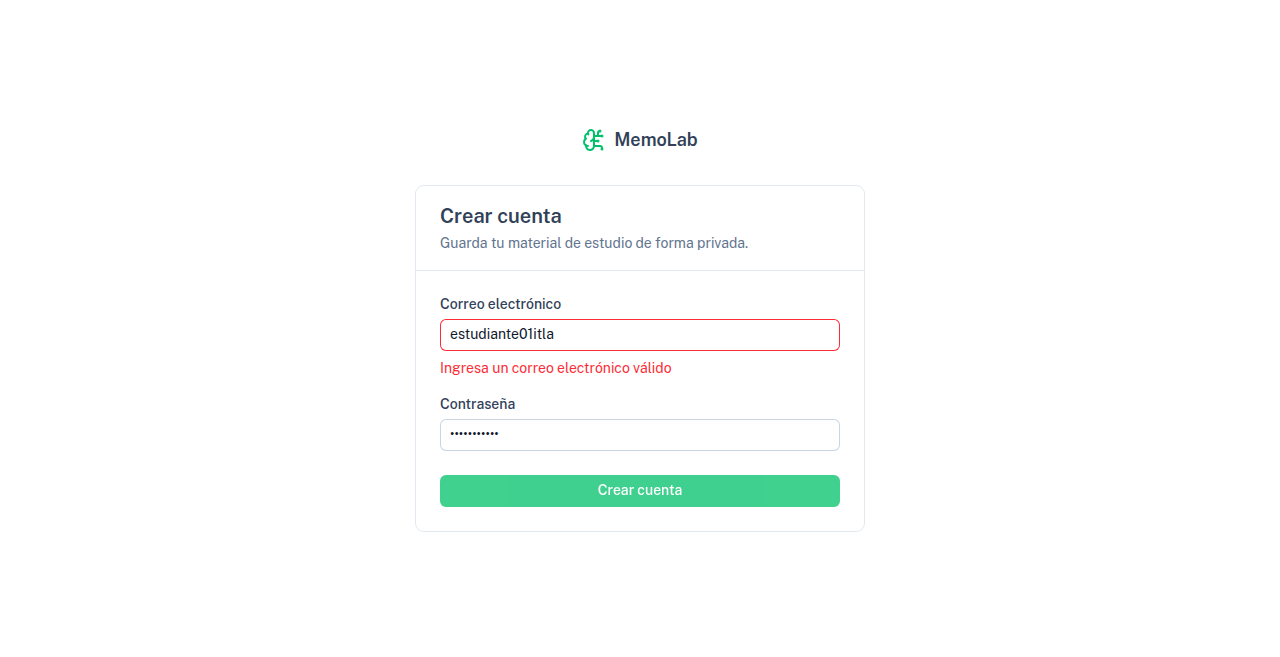
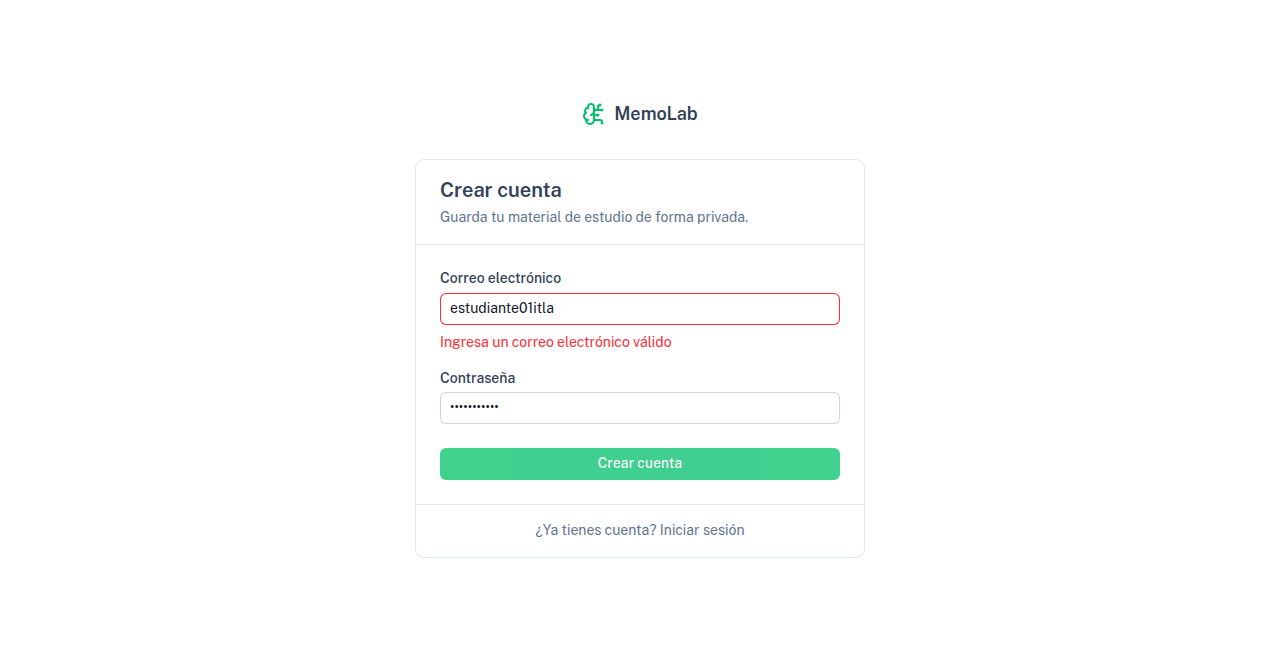
HU-02: inicio y cierre de sesion con rutas protegidas

Changed region(s): [[0.3438, 0.274, 0.6562, 0.8219], [0.4375, 0.1522, 0.5625, 0.2435]]

diff --git a/tests/e2e/login.e2e.test.ts b/tests/e2e/login.e2e.test.ts
@@ -1,0 +1,85 @@
+import type { ChildProcess } from 'node:child_process'
+import { until, type WebDriver } from 'selenium-webdriver'
+import { abrirNavegador, arrancarServidor, correoDePrueba, guardarEvidencia, URL_BASE } from './soporte'
+import { PaginaRegistro } from './paginas/registro'
+import { PaginaLogin } from './paginas/login'
+
+const CONTRASENA = 'MemoLab2026'
+
+let servidor: ChildProcess
+let driver: WebDriver
+let registro: PaginaRegistro
+let login: PaginaLogin
+
+async function crearCuenta(): Promise<string> {
+  const correo = correoDePrueba()
+  await registro.abrir()
+  await registro.llenar(correo, CONTRASENA)
+  await registro.crearCuenta()
+  await driver.wait(until.urlIs(`${URL_BASE}/`), 20000)
+  return correo
+}
+
+beforeAll(async () => {
+  servidor = await arrancarServidor()
+  driver = await abrirNavegador()
+  registro = new PaginaRegistro(driver)
+  login = new PaginaLogin(driver)
+})
+
+afterAll(async () => {
+  await driver?.quit()
+  servidor?.kill()
+})
+
+describe('HU-02 · Inicio y cierre de sesión', () => {
+  test('con los datos correctos entro a la pantalla principal y veo mi correo en la barra de arriba', async () => {
+    const correo = await crearCuenta()
+    await login.cerrarSesion()
+    await driver.wait(until.urlIs(`${URL_BASE}/login`), 20000)
+
+    await login.abrir()
+    await login.llenar(correo, CONTRASENA)
+    await login.iniciarSesion()
+
+    await driver.wait(until.urlIs(`${URL_BASE}/`), 20000)
+    expect(await login.correoEnLaBarra()).toContain(correo)
+
+    await guardarEvidencia(driver, 'HU-02', 'HU-02-sesion-iniciada')
+  })
+
+  test('CP-003: con una contraseña incorrecta muestra «Correo o contraseña incorrectos»', async () => {
+    const correo = await crearCuenta()
+    await login.cerrarSesion()
+    await driver.wait(until.urlIs(`${URL_BASE}/login`), 20000)
+
+    await login.abrir()
+    await login.llenar(correo, 'claveIncorrecta')
+    await login.iniciarSesion()
+
+    await login.esperarMensaje('Correo o contraseña incorrectos')
+    expect(await driver.getCurrentUrl()).toBe(`${URL_BASE}/login`)
+
+    await guardarEvidencia(driver, 'HU-02', 'CP-003-contrasena-incorrecta')
+  })
+
+  test('al recargar la página sigo dentro de la aplicación', async () => {
+    const correo = await crearCuenta()
+
+    await driver.navigate().refresh()
+    await driver.wait(until.urlIs(`${URL_BASE}/`), 20000)
+
+    expect(await login.correoEnLaBarra()).toContain(correo)
+  })
+
+  test('al cerrar sesión y confirmar me lleva a la pantalla de inicio de sesión', async () => {
+    await crearCuenta()
+
+    await login.cerrarSesion()
+    await driver.wait(until.urlIs(`${URL_BASE}/login`), 20000)
+
+    expect(await driver.getCurrentUrl()).toBe(`${URL_BASE}/login`)
+
+    await guardarEvidencia(driver, 'HU-02', 'HU-02-cierre-de-sesion')
+  })
+})

diff --git a/app/pages/login.vue b/app/pages/login.vue
@@ -1,0 +1,102 @@
+<script setup lang="ts">
+definePageMeta({
+  layout: 'auth'
+})
+
+const client = useSupabaseClient()
+
+const email = ref('')
+const password = ref('')
+const loading = ref(false)
+const submitError = ref('')
+
+const canSubmit = computed(() => email.value.trim() !== '' && password.value !== '')
+
+async function handleLogin() {
+  submitError.value = ''
+  loading.value = true
+
+  const { error } = await client.auth.signInWithPassword({
+    email: email.value.trim(),
+    password: password.value
+  })
+
+  loading.value = false
+
+  if (error) {
+    submitError.value = 'Correo o contraseña incorrectos'
+    return
+  }
+
+  await navigateTo('/')
+}
+</script>
+
+<template>
+  <UCard class="w-full max-w-md">
+    <template #header>
+      <h1 class="text-xl font-semibold">
+        Iniciar sesión
+      </h1>
+      <p class="text-sm text-muted mt-1">
+        Entra para seguir con tus repasos.
+      </p>
+    </template>
+
+    <form
+      novalidate
+      @submit.prevent="handleLogin"
+    >
+      <UFormField
+        label="Correo electrónico"
+        name="email"
+      >
+        <UInput
+          v-model="email"
+          type="email"
+          placeholder="estudiante@itla.edu.do"
+          :ui="{ root: 'w-full' }"
+        />
+      </UFormField>
+
+      <UFormField
+        label="Contraseña"
+        name="password"
+        class="mt-4"
+      >
+        <UInput
+          v-model="password"
+          type="password"
+          :ui="{ root: 'w-full' }"
+        />
+      </UFormField>
+
+      <p
+        v-if="submitError"
+        class="mt-4 text-sm text-error"
+        role="alert"
+      >
+        {{ submitError }}
+      </p>
+
+      <UButton
+        type="submit"
+        block
+        class="mt-6"
+        :disabled="!canSubmit || loading"
+        :loading="loading"
+      >
+        Iniciar sesión
+      </UButton>
+    </form>
+
+    <template #footer>
+      <p class="text-sm text-muted text-center">
+        ¿No tienes cuenta?
+        <ULink to="/registro">
+          Crear cuenta
+        </ULink>
+      </p>
+    </template>
+  </UCard>
+</template>

diff --git a/app/layouts/default.vue b/app/layouts/default.vue
@@ -2,9 +2,12 @@
 const user = useSupabaseUser()
 const client = useSupabaseClient()
 
+const confirmarSalida = ref(false)
+
 async function handleLogout() {
+  confirmarSalida.value = false
   await client.auth.signOut()
-  await navigateTo('/')
+  await navigateTo('/login')
 }
 </script>
 
@@ -25,6 +28,13 @@ async function handleLogout() {
       </template>
 
       <template #right>
+        <span
+          v-if="user"
+          class="hidden sm:block text-sm text-muted"
+        >
+          {{ user.email }}
+        </span>
+
         <UColorModeButton />
 
         <UButton
@@ -33,15 +43,15 @@ async function handleLogout() {
           color="neutral"
           variant="ghost"
           aria-label="Cerrar sesión"
-          @click="handleLogout"
+          @click="confirmarSalida = true"
         />
         <UButton
           v-else
-          to="/registro"
+          to="/login"
           color="neutral"
           variant="ghost"
         >
-          Crear cuenta
+          Iniciar sesión
         </UButton>
       </template>
     </UHeader>
@@ -57,5 +67,27 @@ async function handleLogout() {
         </p>
       </template>
     </UFooter>
+
+    <UModal
+      v-model:open="confirmarSalida"
+      title="Cerrar sesión"
+      description="¿Seguro que quieres salir de tu cuenta?"
+    >
+      <template #footer>
+        <UButton
+          color="neutral"
+          variant="ghost"
+          @click="confirmarSalida = false"
+        >
+          Cancelar
+        </UButton>
+        <UButton
+          color="error"
+          @click="handleLogout"
+        >
+          Cerrar sesión
+        </UButton>
+      </template>
+    </UModal>
   </div>
 </template>

diff --git a/tests/e2e/paginas/login.ts b/tests/e2e/paginas/login.ts
@@ -1,0 +1,42 @@
+import { By, until, type WebDriver } from 'selenium-webdriver'
+import { esperarHidratacion, esperarTexto, URL_BASE } from '../soporte'
+
+export class PaginaLogin {
+  driver: WebDriver
+
+  constructor(driver: WebDriver) {
+    this.driver = driver
+  }
+
+  async abrir(): Promise<void> {
+    await this.driver.get(`${URL_BASE}/login`)
+    await esperarHidratacion(this.driver)
+  }
+
+  async llenar(correo: string, contrasena: string): Promise<void> {
+    await this.driver.findElement(By.css('input[type="email"]')).sendKeys(correo)
+    await this.driver.findElement(By.css('input[type="password"]')).sendKeys(contrasena)
+  }
+
+  async iniciarSesion(): Promise<void> {
+    await this.driver.findElement(By.css('button[type="submit"]')).click()
+  }
+
+  async esperarMensaje(texto: string): Promise<void> {
+    await esperarTexto(this.driver, texto)
+  }
+
+  async correoEnLaBarra(): Promise<string> {
+    const elemento = await this.driver.wait(until.elementLocated(By.css('header')), 15000)
+    return elemento.getText()
+  }
+
+  async cerrarSesion(): Promise<void> {
+    await this.driver.findElement(By.css('button[aria-label="Cerrar sesión"]')).click()
+    const confirmar = await this.driver.wait(
+      until.elementLocated(By.xpath('//div[@role="dialog"]//button[contains(., "Cerrar sesión")]')),
+      15000
+    )
+    await confirmar.click()
+  }
+}

diff --git a/app/pages/index.vue b/app/pages/index.vue
@@ -1,3 +1,7 @@
+<script setup lang="ts">
+const user = useSupabaseUser()
+</script>
+
 <template>
   <div class="mx-auto max-w-3xl px-4 py-16 text-center">
     <h1 class="text-4xl font-bold tracking-tight">
@@ -6,12 +10,31 @@
     <p class="mt-4 text-lg text-muted">
       Plataforma web de estudio con repetición espaciada, enfoque Pomodoro y notas.
     </p>
-    <div class="mt-8 flex justify-center gap-3">
+
+    <p
+      v-if="user"
+      class="mt-8 text-muted"
+    >
+      Bienvenido de vuelta, {{ user.email }}.
+    </p>
+
+    <div
+      v-else
+      class="mt-8 flex justify-center gap-3"
+    >
       <UButton
         to="/registro"
         size="lg"
       >
         Crear cuenta
+      </UButton>
+      <UButton
+        to="/login"
+        size="lg"
+        color="neutral"
+        variant="subtle"
+      >
+        Iniciar sesión
       </UButton>
     </div>
   </div>

diff --git a/app/pages/registro.vue b/app/pages/registro.vue
@@ -119,5 +119,14 @@ async function handleRegister() {
         Crear cuenta
       </UButton>
     </form>
+
+    <template #footer>
+      <p class="text-sm text-muted text-center">
+        ¿Ya tienes cuenta?
+        <ULink to="/login">
+          Iniciar sesión
+        </ULink>
+      </p>
+    </template>
   </UCard>
 </template>

diff --git a/nuxt.config.ts b/nuxt.config.ts
@@ -13,10 +13,6 @@ export default defineNuxtConfig({
 
   css: ['~/assets/css/main.css'],
 
-  routeRules: {
-    '/': { prerender: true }
-  },
-
   compatibilityDate: '2026-06-30',
 
   eslint: {

diff --git a/app/middleware/auth.ts b/app/middleware/auth.ts
@@ -1,0 +1,7 @@
+export default defineNuxtRouteMiddleware(() => {
+  const user = useSupabaseUser()
+
+  if (!user.value) {
+    return navigateTo('/login')
+  }
+})
